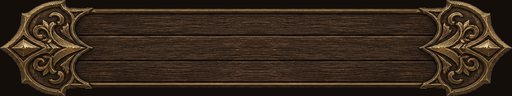
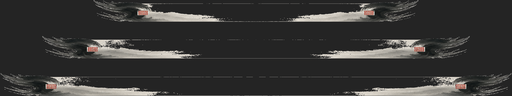
feat(ui): 框体 Showcase 换皮为中国水墨风
同一套九宫格/三宫格/二方/四方切铺合同，贴图与色板换成宣纸墨痕与朱印，
用于展示换皮能力。

diff --git a/mods/UiShowcaseCoreMod/UiShowcaseCoreMod.Assets.Showcase.nineslice_panel.css b/mods/UiShowcaseCoreMod/UiShowcaseCoreMod.Assets.Showcase.nineslice_panel.css
@@ -1,4 +1,4 @@
-/* Frame lab: nine-slice / three-slice / 2-way / 4-way tile — Native CSS Profile. */
+/* Ink-wash frame lab — Native CSS Profile. */
 
 * {
   margin: 0;
@@ -12,8 +12,8 @@
   height: 720px;
   padding: 18px;
   gap: 12px;
-  background: linear-gradient(160deg, #1a120c 0%, #2a1c14 55%, #120c08 100%);
-  color: #f3e6c8;
+  background: linear-gradient(165deg, #1c1c1c 0%, #2a2a2a 45%, #141414 100%);
+  color: #ebe4d4;
   font-family: "Segoe UI", "Noto Sans SC", "WenQuanYi Micro Hei", "Droid Sans Fallback", sans-serif;
 }
 
@@ -28,20 +28,20 @@
   height: 16px;
   font-size: 11px;
   font-weight: bold;
-  color: #d4a24a;
+  color: #b33a2b;
 }
 
 .ns-title {
   height: 34px;
   font-size: 30px;
   font-weight: bold;
-  color: #fff4d8;
+  color: #f4efe4;
 }
 
 .ns-lead {
   height: 22px;
   font-size: 14px;
-  color: #c9b07a;
+  color: #a8a090;
 }
 
 .ns-toolbar {
@@ -58,12 +58,12 @@
   justify-content: center;
   width: 140px;
   height: 42px;
-  background: rgba(40, 28, 18, 0.95);
+  background: rgba(36, 36, 36, 0.95);
   border-width: 1px;
   border-style: solid;
-  border-color: #8a6230;
+  border-color: #6a6558;
   border-radius: 999px;
-  color: #e8d5a8;
+  color: #d8d0c0;
   font-size: 13px;
 }
 
@@ -75,9 +75,9 @@
 }
 
 .ns-chip.active {
-  background: linear-gradient(90deg, #c9a227 0%, #8a6230 100%);
-  border-color: #ffe2a0;
-  color: #1a120c;
+  background: linear-gradient(90deg, #3a3a3a 0%, #1e1e1e 100%);
+  border-color: #b33a2b;
+  color: #f4efe4;
   font-weight: bold;
 }
 
@@ -97,10 +97,10 @@
   flex-grow: 1;
   width: 0;
   height: 100%;
-  background: linear-gradient(165deg, #3a2416 0%, #18100c 55%, #0c0806 100%);
+  background: linear-gradient(165deg, #3a3834 0%, #242420 55%, #121210 100%);
   border-width: 1px;
   border-style: solid;
-  border-color: #5a3c1e;
+  border-color: #5a564c;
   border-radius: 16px;
   overflow: hidden;
   padding: 18px;
@@ -122,7 +122,7 @@
 .sheet {
   position: relative;
   overflow: hidden;
-  background: #2a1c12;
+  background: #efe6d4;
   width: 520px;
   height: 420px;
 }
@@ -153,20 +153,20 @@
   height: 16px;
   font-size: 11px;
   font-weight: bold;
-  color: #8a6230;
+  color: #b33a2b;
 }
 
 .sheet-name {
   height: 36px;
   font-size: 28px;
   font-weight: bold;
-  color: #3a2412;
+  color: #1a1a1a;
 }
 
 .sheet-blurb {
   flex-grow: 1;
   font-size: 14px;
-  color: #4a3420;
+  color: #3a3834;
   overflow: hidden;
 }
 
@@ -206,7 +206,7 @@
   position: relative;
   font-size: 15px;
   font-weight: bold;
-  color: #f3e6c8;
+  color: #f4efe4;
 }
 
 .three-stack {
@@ -252,12 +252,12 @@
   position: relative;
   font-size: 16px;
   font-weight: bold;
-  color: #f3e6c8;
+  color: #1a1a1a;
 }
 
 .mode-caption {
   font-size: 14px;
-  color: #e8d5a8;
+  color: #d8d0c0;
   min-height: 40px;
 }
 
@@ -280,7 +280,7 @@
   border-radius: 8px;
   border-width: 1px;
   border-style: solid;
-  border-color: #8a6230;
+  border-color: #6a6558;
 }
 
 .strip-v-host {
@@ -302,7 +302,7 @@
   border-radius: 8px;
   border-width: 1px;
   border-style: solid;
-  border-color: #8a6230;
+  border-color: #6a6558;
   flex-shrink: 0;
 }
 
@@ -326,19 +326,19 @@
   gap: 10px;
   width: 360px;
   padding: 22px;
-  background: rgba(18, 12, 8, 0.82);
+  background: rgba(20, 20, 18, 0.86);
   border-width: 1px;
   border-style: solid;
-  border-color: #d4a24a;
+  border-color: #b33a2b;
   border-radius: 12px;
 }
 
 .tile-card .sheet-kicker {
-  color: #d4a24a;
+  color: #b33a2b;
 }
 
 .tile-card .sheet-name {
-  color: #fff4d8;
+  color: #f4efe4;
 }
 
 .ns-aside {
@@ -346,10 +346,10 @@
   flex-direction: column;
   width: 276px;
   height: 100%;
-  background: linear-gradient(180deg, rgba(42, 28, 18, 0.98) 0%, rgba(22, 14, 10, 0.98) 100%);
+  background: linear-gradient(180deg, rgba(36, 36, 34, 0.98) 0%, rgba(18, 18, 16, 0.98) 100%);
   border-width: 1px;
   border-style: solid;
-  border-color: #d4a24a;
+  border-color: #b33a2b;
   border-radius: 16px;
   padding: 16px;
   gap: 12px;
@@ -359,23 +359,23 @@
   min-height: 40px;
   font-size: 17px;
   font-weight: bold;
-  color: #ffe2a0;
+  color: #f0e6d2;
 }
 
 .ns-point {
   min-height: 56px;
   font-size: 13px;
-  color: #e8d5a8;
+  color: #d8d0c0;
   padding: 10px;
-  background: rgba(0, 0, 0, 0.22);
+  background: rgba(0, 0, 0, 0.28);
   border-radius: 10px;
   border-width: 1px;
   border-style: solid;
-  border-color: rgba(212, 162, 74, 0.35);
+  border-color: rgba(179, 58, 43, 0.45);
 }
 
 .ns-footnote {
   flex-grow: 1;
   font-size: 12px;
-  color: #c9b07a;
+  color: #a8a090;
 }

diff --git a/mods/UiShowcaseCoreMod/UiShowcaseCoreMod.Assets.Showcase.nineslice_panel.html b/mods/UiShowcaseCoreMod/UiShowcaseCoreMod.Assets.Showcase.nineslice_panel.html
@@ -1,8 +1,8 @@
 <div id="nineslice-root" class="ns-root">
   <div id="ns-header" class="ns-header">
-    <div id="ns-brand" class="ns-brand">LUDOTS · FRAME LAB</div>
-    <div id="ns-title" class="ns-title">框体怎么切、怎么铺</div>
-    <div id="ns-lead" class="ns-lead">九宫格拉开角不动；三宫格只拉长条；二方/四方是花纹连续铺满。</div>
+    <div id="ns-brand" class="ns-brand">LUDOTS · 水墨匣</div>
+    <div id="ns-title" class="ns-title">墨痕怎么裁、怎么铺</div>
+    <div id="ns-lead" class="ns-lead">宣纸卷轴可拉开，墨边角钉住；云纹可一节节接，墙面可四向铺满。</div>
   </div>
   <div id="ns-toolbar" class="ns-toolbar">
     <button id="mode-nine" class="ns-chip {{nine_class}}" ui-click="ModeNine"><div id="mode-nine-label" class="ns-chip-label">九宫格</div></button>
@@ -16,17 +16,17 @@
         <div id="sheet" class="sheet size-wide">
           <img id="sheet-frame" class="sheet-frame" src="{{panel_frame_data_uri}}" />
           <div id="sheet-body" class="sheet-body">
-            <div class="sheet-kicker">NINE-SLICE</div>
-            <div class="sheet-name">九宫格卷宗</div>
-            <div class="sheet-blurb">四角金饰钉死，木边和羊皮纸被拉开。下面两枚按钮也是九宫格，角应对称。</div>
+            <div class="sheet-kicker">水墨 · 九宫格</div>
+            <div class="sheet-name">青岚行卷</div>
+            <div class="sheet-blurb">朱印钉在四角，墨边与宣纸被拉开。下面两枚墨钮也是九宫格，角应对称。</div>
             <div class="sheet-actions">
               <div id="btn-rest" class="ornate-btn">
                 <img class="ornate-btn-frame" src="{{button_frame_data_uri}}" />
-                <div class="ornate-btn-label">休憩整备</div>
+                <div class="ornate-btn-label">小憩烹茶</div>
               </div>
               <div id="btn-depart" class="ornate-btn">
                 <img class="ornate-btn-frame" src="{{button_frame_data_uri}}" />
-                <div class="ornate-btn-label">再次启程</div>
+                <div class="ornate-btn-label">继续云游</div>
               </div>
             </div>
           </div>
@@ -37,13 +37,13 @@
         <div class="three-stack">
           <div id="ribbon-short" class="ribbon ribbon-short">
             <img id="ribbon-short-frame" class="ribbon-frame" src="{{ribbon_frame_data_uri}}" />
-            <div class="ribbon-label">短绶带 · 三宫格</div>
+            <div class="ribbon-label">短签 · 三宫格</div>
           </div>
           <div id="ribbon-long" class="ribbon ribbon-long">
             <img id="ribbon-long-frame" class="ribbon-frame" src="{{ribbon_frame_data_uri}}" />
-            <div class="ribbon-label">长绶带 · 只拉中间木纹，两端徽记不变形</div>
+            <div class="ribbon-label">长签 · 只拉中间墨痕，两端笔锋不变形</div>
           </div>
-          <div class="mode-caption">左右两头固定，中间一条被拉长——这就是横向三宫格。</div>
+          <div class="mode-caption">左右笔锋钉死，中间宣纸被拉长——横向三宫格。</div>
         </div>
       </div>
 
@@ -52,7 +52,7 @@
           <div id="strip-h" class="strip-h"></div>
           <div id="strip-v-host" class="strip-v-host">
             <div id="strip-v" class="strip-v"></div>
-            <div class="mode-caption">上：横向二方连续。左：纵向二方连续。花纹一节一节接，不是整图硬拉。</div>
+            <div class="mode-caption">上：横向云纹二方连续。左：纵向云纹二方连续。一节节接，不是整图硬拉。</div>
           </div>
         </div>
       </div>
@@ -60,9 +60,9 @@
       <div id="panel-four" class="mode-panel {{four_panel_class}}">
         <div id="tile-floor" class="tile-floor">
           <div class="tile-card">
-            <div class="sheet-kicker">FOUR-WAY TILE</div>
-            <div class="sheet-name">四方连续地砖</div>
-            <div class="mode-caption">整面墙用同一块花纹左右上下接缝铺满。</div>
+            <div class="sheet-kicker">水墨 · 四方连续</div>
+            <div class="sheet-name">竹影墙纸</div>
+            <div class="mode-caption">同一幅竹雾花纹，左右上下接缝铺满整面墙。</div>
           </div>
         </div>
       </div>

diff --git a/src/Tools/Ludots.UI.ShowcaseCapture/Program.cs b/src/Tools/Ludots.UI.ShowcaseCapture/Program.cs
@@ -212,19 +212,19 @@ void RunSkinSwapSuite()
 void RunNineSlicePanelSuite()
 {
     string root = Path.Combine(acceptanceRoot, "ui-nineslice-panel");
-    CaptureSuite suite = new("UI Frame Lab", root, renderer);
+    CaptureSuite suite = new("UI Ink Frame Lab", root, renderer);
     UiScene scene = UiShowcaseFactory.CreateNineSlicePanelScene(textMeasurer, imageSizeProvider);
-    suite.Capture("frame-nine", scene, "Nine-slice ornate sheet and symmetric button frames.");
-    suite.Click(scene, "mode-three", "Switch to three-slice ribbons.");
-    suite.Capture("frame-three", scene, "Short vs long ribbon: end caps fixed, middle wood stretches.");
-    suite.Click(scene, "mode-two", "Switch to two-way continuous strips.");
-    suite.Capture("frame-two", scene, "Horizontal repeat-x and vertical repeat-y ornament strips.");
-    suite.Click(scene, "mode-four", "Switch to four-way continuous floor.");
-    suite.Capture("frame-four", scene, "Seamless tile fill across the stage.");
+    suite.Capture("frame-nine", scene, "Ink-wash nine-slice scroll and seal-corner buttons.");
+    suite.Click(scene, "mode-three", "Switch to three-slice ink ribbons.");
+    suite.Capture("frame-three", scene, "Short vs long ink tags: brush tips fixed, middle paper stretches.");
+    suite.Click(scene, "mode-two", "Switch to two-way continuous cloud strips.");
+    suite.Capture("frame-two", scene, "Horizontal and vertical ink ornament strips.");
+    suite.Click(scene, "mode-four", "Switch to four-way bamboo mist tile.");
+    suite.Capture("frame-four", scene, "Seamless ink tile fill across the stage.");
     suite.WriteReport(
         new[]
         {
-            "- PASS: nine-slice panel/buttons, three-slice ribbons, two-way and four-way tiles.",
+            "- PASS: ink-wash nine/three-slice and two/four-way tiles share the same contracts.",
             "- PASS: mode chips switch visible demos without rebuilding unrelated assets.",
             "- PASS: chip labels stay centered via explicit label nodes."
         },

diff --git a/mods/UiShowcaseCoreMod/Showcase/NineSlicePanelShowcaseCodeBehind.cs b/mods/UiShowcaseCoreMod/Showcase/NineSlicePanelShowcaseCodeBehind.cs
@@ -165,27 +165,27 @@ internal sealed class NineSlicePanelShowcaseCodeBehind
 	{
 		"three" => (
 			"当前：三宫格",
-			"短绶带 / 长绶带同一张图。",
-			"两端徽记宽度钉死，只拉中间木纹。",
+			"短签 / 长签同一张墨图。",
+			"两端笔锋宽度钉死，只拉中间。",
 			"左右切边有值，上下切边为 0。",
-			"玩法：对比短带与长带，徽记形状应一样。"),
+			"玩法：对比短签与长签，笔锋形状应一样。"),
 		"two" => (
 			"当前：二方连续",
-			"上面横条：左右一节节接。",
-			"左边竖条：上下一节节接。",
+			"上面横条：云纹左右一节节接。",
+			"左边竖条：云纹上下一节节接。",
 			"花纹连续铺，不是整图硬拉。",
 			"玩法：看接缝是否自然，有没有被拉糊。"),
 		"four" => (
 			"当前：四方连续",
-			"整面墙用同一块花纹铺满。",
+			"整面墙用同一幅竹雾铺满。",
 			"左右上下四个方向都接缝。",
-			"适合地砖、墙纸、盔甲鳞片底纹。",
+			"适合墙纸、屏风底纹、锦地。",
 			"玩法：扫一眼接缝，四边应对得上。"),
 		_ => (
 			"当前：九宫格",
-			"卷宗四角金饰钉死不变形。",
-			"木边与羊皮纸被拉开填满中间。",
-			"按钮也是九宫格，四角应对称。",
+			"卷轴四角朱印钉死不变形。",
+			"墨边与宣纸被拉开填满中间。",
+			"墨钮也是九宫格，四角应对称。",
 			"玩法：看角是否匀称；再切其他模式对比铺法。")
 	};
 }

diff --git a/mods/showcases/ui_nineslice_panel/UiNineSlicePanelShowcaseMod/README.md b/mods/showcases/ui_nineslice_panel/UiNineSlicePanelShowcaseMod/README.md
@@ -1,24 +1,17 @@
-# 框体怎么切、怎么铺
+# 墨痕怎么裁、怎么铺
 
-玩家向 Showcase：对比拟物框的四种铺法。
+玩家向 Showcase：中国水墨风拟物框，对照四种切铺能力。
 
 ## 玩法
 
-1. **九宫格**：卷宗与按钮四角钉死，中间拉开。
-2. **三宫格**：短/长绶带同一张图，只拉中间。
-3. **二方连续**：横条 `repeat-x`、竖条 `repeat-y` 一节节接。
-4. **四方连续**：整面墙 `repeat` 铺满。
+1. **九宫格**：宣纸卷轴与墨钮，四角朱印钉死。
+2. **三宫格**：短/长签同一张图，只拉中间。
+3. **二方连续**：云纹横条 / 竖条一节节接。
+4. **四方连续**：竹雾墙纸四向铺满。
 
-## 能力边界
+## 换皮说明
 
-| 铺法 | 支持 | 挂靠 |
-| --- | --- | --- |
-| 九宫格 | 有 | `<img>` + `image-slice` |
-| 三宫格（横向） | 有 | `image-slice` 左右有值、上下为 0 |
-| 二方连续 | 有 | `background-repeat: repeat-x` / `repeat-y` |
-| 四方连续 | 有 | `background-repeat: repeat` |
-
-注意：九/三宫格走 `<img>`；二方/四方走 `background-image`，不是同一条绘制路径。
+同一套切铺合同（`image-slice` / `background-repeat`），只换贴图与色板即可从雕花木匣换成水墨匣——本 Showcase 当前皮为水墨。
 
 ## 验收
 
